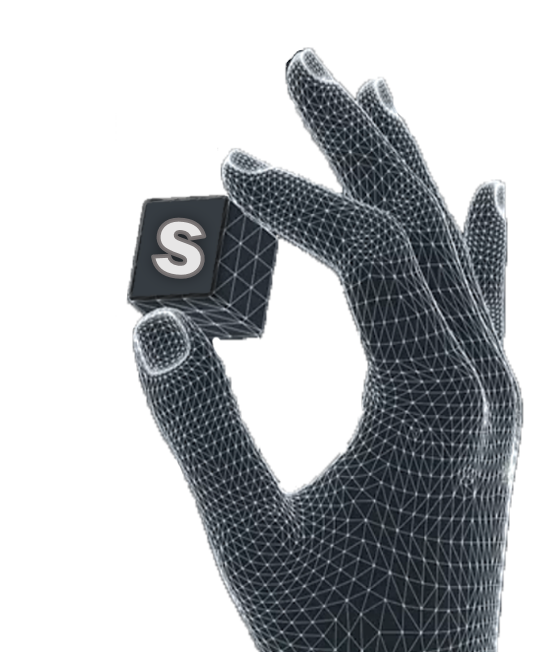
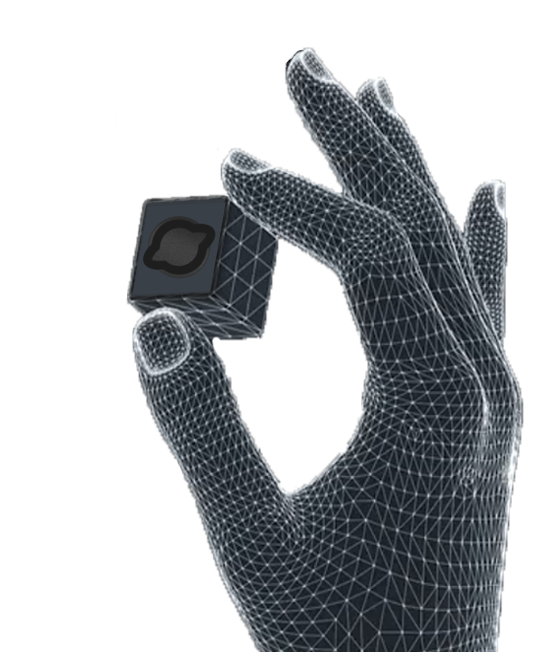
[FE] Fix: 테스트 시나리오 토대로 UI 수정

Changed region(s): [[0.2446, 0.3067, 0.3975, 0.4294]]

diff --git a/frontend/src/pages/home/Home.tsx b/frontend/src/pages/home/Home.tsx
@@ -36,7 +36,7 @@ function Home() {
       <NavBox>
         <Container>
           <Logo>
-            <img src="" alt="" />
+            <img src={`${process.env.PUBLIC_URL}/images/SNV토큰.png`} alt="" />
           </Logo>
           <Menu>
             <ul>
@@ -180,15 +180,17 @@ const Container = styled.div`
   animation: ${anim4} 1.5s forwards 0.5s;
 `;
 
-export const Logo = styled.div`
+export const Logo = styled.image`
   float: left;
+
   margin-left: 80px;
+  margin-right: 40px;
   margin-top: 10px;
   img {
-    width: 50px;
+    width: 60px;
   }
   @media screen and (max-width: 600px) {
-    margin-left: 40px;
+    margin-left: 20px;
   }
 `;
 export const Menu = styled.div`
@@ -196,19 +198,19 @@ export const Menu = styled.div`
   font-weight: 600;
   color: ${(props) => props.theme.textColor};
 
-  letter-spacing: 2px;
+  letter-spacing: 1px;
   margin-right: 150px;
-  margin-top: 22px;
-  @media screen and (min-width: 1900px) {
-    margin-top: 28px;
+  margin-top: 28px;
+  @media screen and (min-width: 1500px) {
     margin-left: 2px;
   }
+
   /* float: right; */
   ul {
     list-style: none;
     li {
       display: inline-block;
-      margin-right: 80px;
+      margin-right: 25px;
       &:hover {
         color: ${(props) => props.theme.ownColor};
       }

diff --git a/frontend/src/components/Home/Tag/BasicSection.tsx b/frontend/src/components/Home/Tag/BasicSection.tsx
@@ -9,6 +9,7 @@ export interface BasicSectionProps {
   title: string;
   size: number;
   introTitle?: string;
+  title2?: string;
   introContent?: string;
   reversed?: boolean;
 }
@@ -17,6 +18,7 @@ export default function BasicSection({
   imageUrl,
   size,
   title,
+  title2,
   children,
   introTitle,
   introContent,
@@ -31,6 +33,8 @@ export default function BasicSection({
       </ImageContainer>
       <ContentContainer>
         <Title>{title}</Title>
+        <Title>{title2}</Title>
+
         <BasicRichText>{children}</BasicRichText>
       </ContentContainer>
     </BasicSectionWrapper>
@@ -39,16 +43,17 @@ export default function BasicSection({
 
 export const Title = styled.h1`
   margin-top: 1rem;
-  font-size: 2.3rem;
+  font-size: 2.4rem;
   font-weight: bold;
   line-height: 1.5;
   margin-bottom: 2rem;
   letter-spacing: -0.03em;
+
   @media screen and (max-width: 500px) {
     font-size: 1.2rem;
   }
   @media screen and (min-width: 800px) and (max-width: 1450px) {
-    font-size: 1.6rem;
+    font-size: 1.55rem;
   }
 `;
 

diff --git a/frontend/src/components/Home/Tag/ImagesSlider.jsx b/frontend/src/components/Home/Tag/ImagesSlider.jsx
@@ -51,12 +51,14 @@ export const ImagesSlider = ({ Images }) => {
 const StyledUpperSwiper = styled(Swiper)`
   /* width: 800px;
   height: 550px; */
+  box-shadow: 0 10px 30px 0 rgba(0, 0, 0, 0.2);
+
   z-index: 0;
   width: 45vw;
   height: 60%;
   @media screen and (min-width: 1700px) {
     width: 48vw;
-    height: 80%;
+    height: 72%;
   }
   @media screen and (max-width: 800px) {
     width: 100%;
@@ -88,7 +90,9 @@ const StyledUpperSwiper = styled(Swiper)`
   }
 `;
 const StyledLowerSwiper = styled(Swiper)`
-  @media screen and (min-width: 1900px) {
+  box-shadow: 0 2px 10px 0 rgba(0, 0, 0, 0.2);
+
+  @media screen and (min-width: 1700px) {
     width: 48vw;
   }
   @media screen and (max-width: 800px) {

diff --git a/frontend/src/pages/home/Service.tsx b/frontend/src/pages/home/Service.tsx
@@ -5,14 +5,18 @@ import { Intro } from "components/Home/Intro";
 import { Option } from "components/Home/Option";
 import { ShortIntro } from "components/Home/ShortIntro";
 import { SideFeatures } from "components/Home/SideFeatures";
-
+import AOS from "aos";
+import "aos/dist/aos.css";
 import { TopButton } from "components/Home/TopButton";
 
-import React from "react";
+import React, { useEffect } from "react";
 
 import styled from "styled-components";
 
 export const Service = () => {
+  useEffect(() => {
+    AOS.init();
+  });
   return (
     <Wrapper>
       <Option />

diff --git a/frontend/src/components/Home/ShortIntro.tsx b/frontend/src/components/Home/ShortIntro.tsx
@@ -4,11 +4,12 @@ import BasicSection from "./Tag/BasicSection";
 
 export const ShortIntro = () => {
   return (
-    <Wrapper id="shortIntro">
+    <Wrapper >
       <BasicSection
-        size={400}
+        size={450}
         imageUrl={`${process.env.PUBLIC_URL}/images/모니터.png`}
-        title="Solana 블록체인으로 가능해진 새로운 인터넷 방송 후원 플랫폼"
+        title="Solana 블록체인으로 가능해진 "
+        title2="새로운 인터넷 방송 후원 플랫폼"
       ></BasicSection>
     </Wrapper>
   );

diff --git a/frontend/src/components/Home/AlertBoxSetting.tsx b/frontend/src/components/Home/AlertBoxSetting.tsx
@@ -29,6 +29,7 @@ export const AlertBoxSetting = () => {
 };
 const AlertWrapper = styled(Wrapper)`
   justify-content: center;
+
   @media screen and (max-width: 800px) {
     align-items: center;
     height: 600px;
@@ -37,7 +38,7 @@ const AlertWrapper = styled(Wrapper)`
 const Box = styled.div`
   @media screen and (min-width: 1700px) {
     margin-top: 2%;
-    width: 900px;
+    width: 930px;
     height: 580px;
   }
   width: 692px;

diff --git a/frontend/src/components/Home/Option.tsx b/frontend/src/components/Home/Option.tsx
@@ -50,7 +50,7 @@ const WrapperNav = styled.div<{ top: boolean }>`
   opacity: 0.8;
   padding-right: 10%;
   list-style: none;
-  background-color: ${(props) => (!props.top ? "white" : null)};
+  background-color: ${(props) => (!props.top ? props.theme.bgColor : null)};
   box-shadow: ${(props) =>
     !props.top ? "1px 0px 10px 1px rgba(151, 151, 151, 0.25)" : null};
   transition: box-shadow 0.2s ease-out;

diff --git a/frontend/src/components/Home/CoreFeatures.tsx b/frontend/src/components/Home/CoreFeatures.tsx
@@ -12,7 +12,7 @@ const coreFeatures = [
     Icon: <BsChevronDoubleDown />,
     title: "수수료율 절감",
     content:
-      "도네이션의 부담을 해소하기 위해 기존 시장 수수료율 10%에서 0.01%로 절감",
+      "도네이션의 부담을 해소하기 위한 0.01$ 미만 수준의 마이크로 수수료율",
   },
   {
     Icon: <IoEarth />,

diff --git a/frontend/src/components/Home/Intro.tsx b/frontend/src/components/Home/Intro.tsx
@@ -5,7 +5,7 @@ import BasicSection, { Title } from "./Tag/BasicSection";
 
 export const Intro = () => {
   return (
-    <Wrapper>
+    <Wrapper data-aos="fade-up" data-aos-duration="2000" id="shortIntro">
       <BasicSection
         size={200}
         introTitle="SOLNIVERSE"
